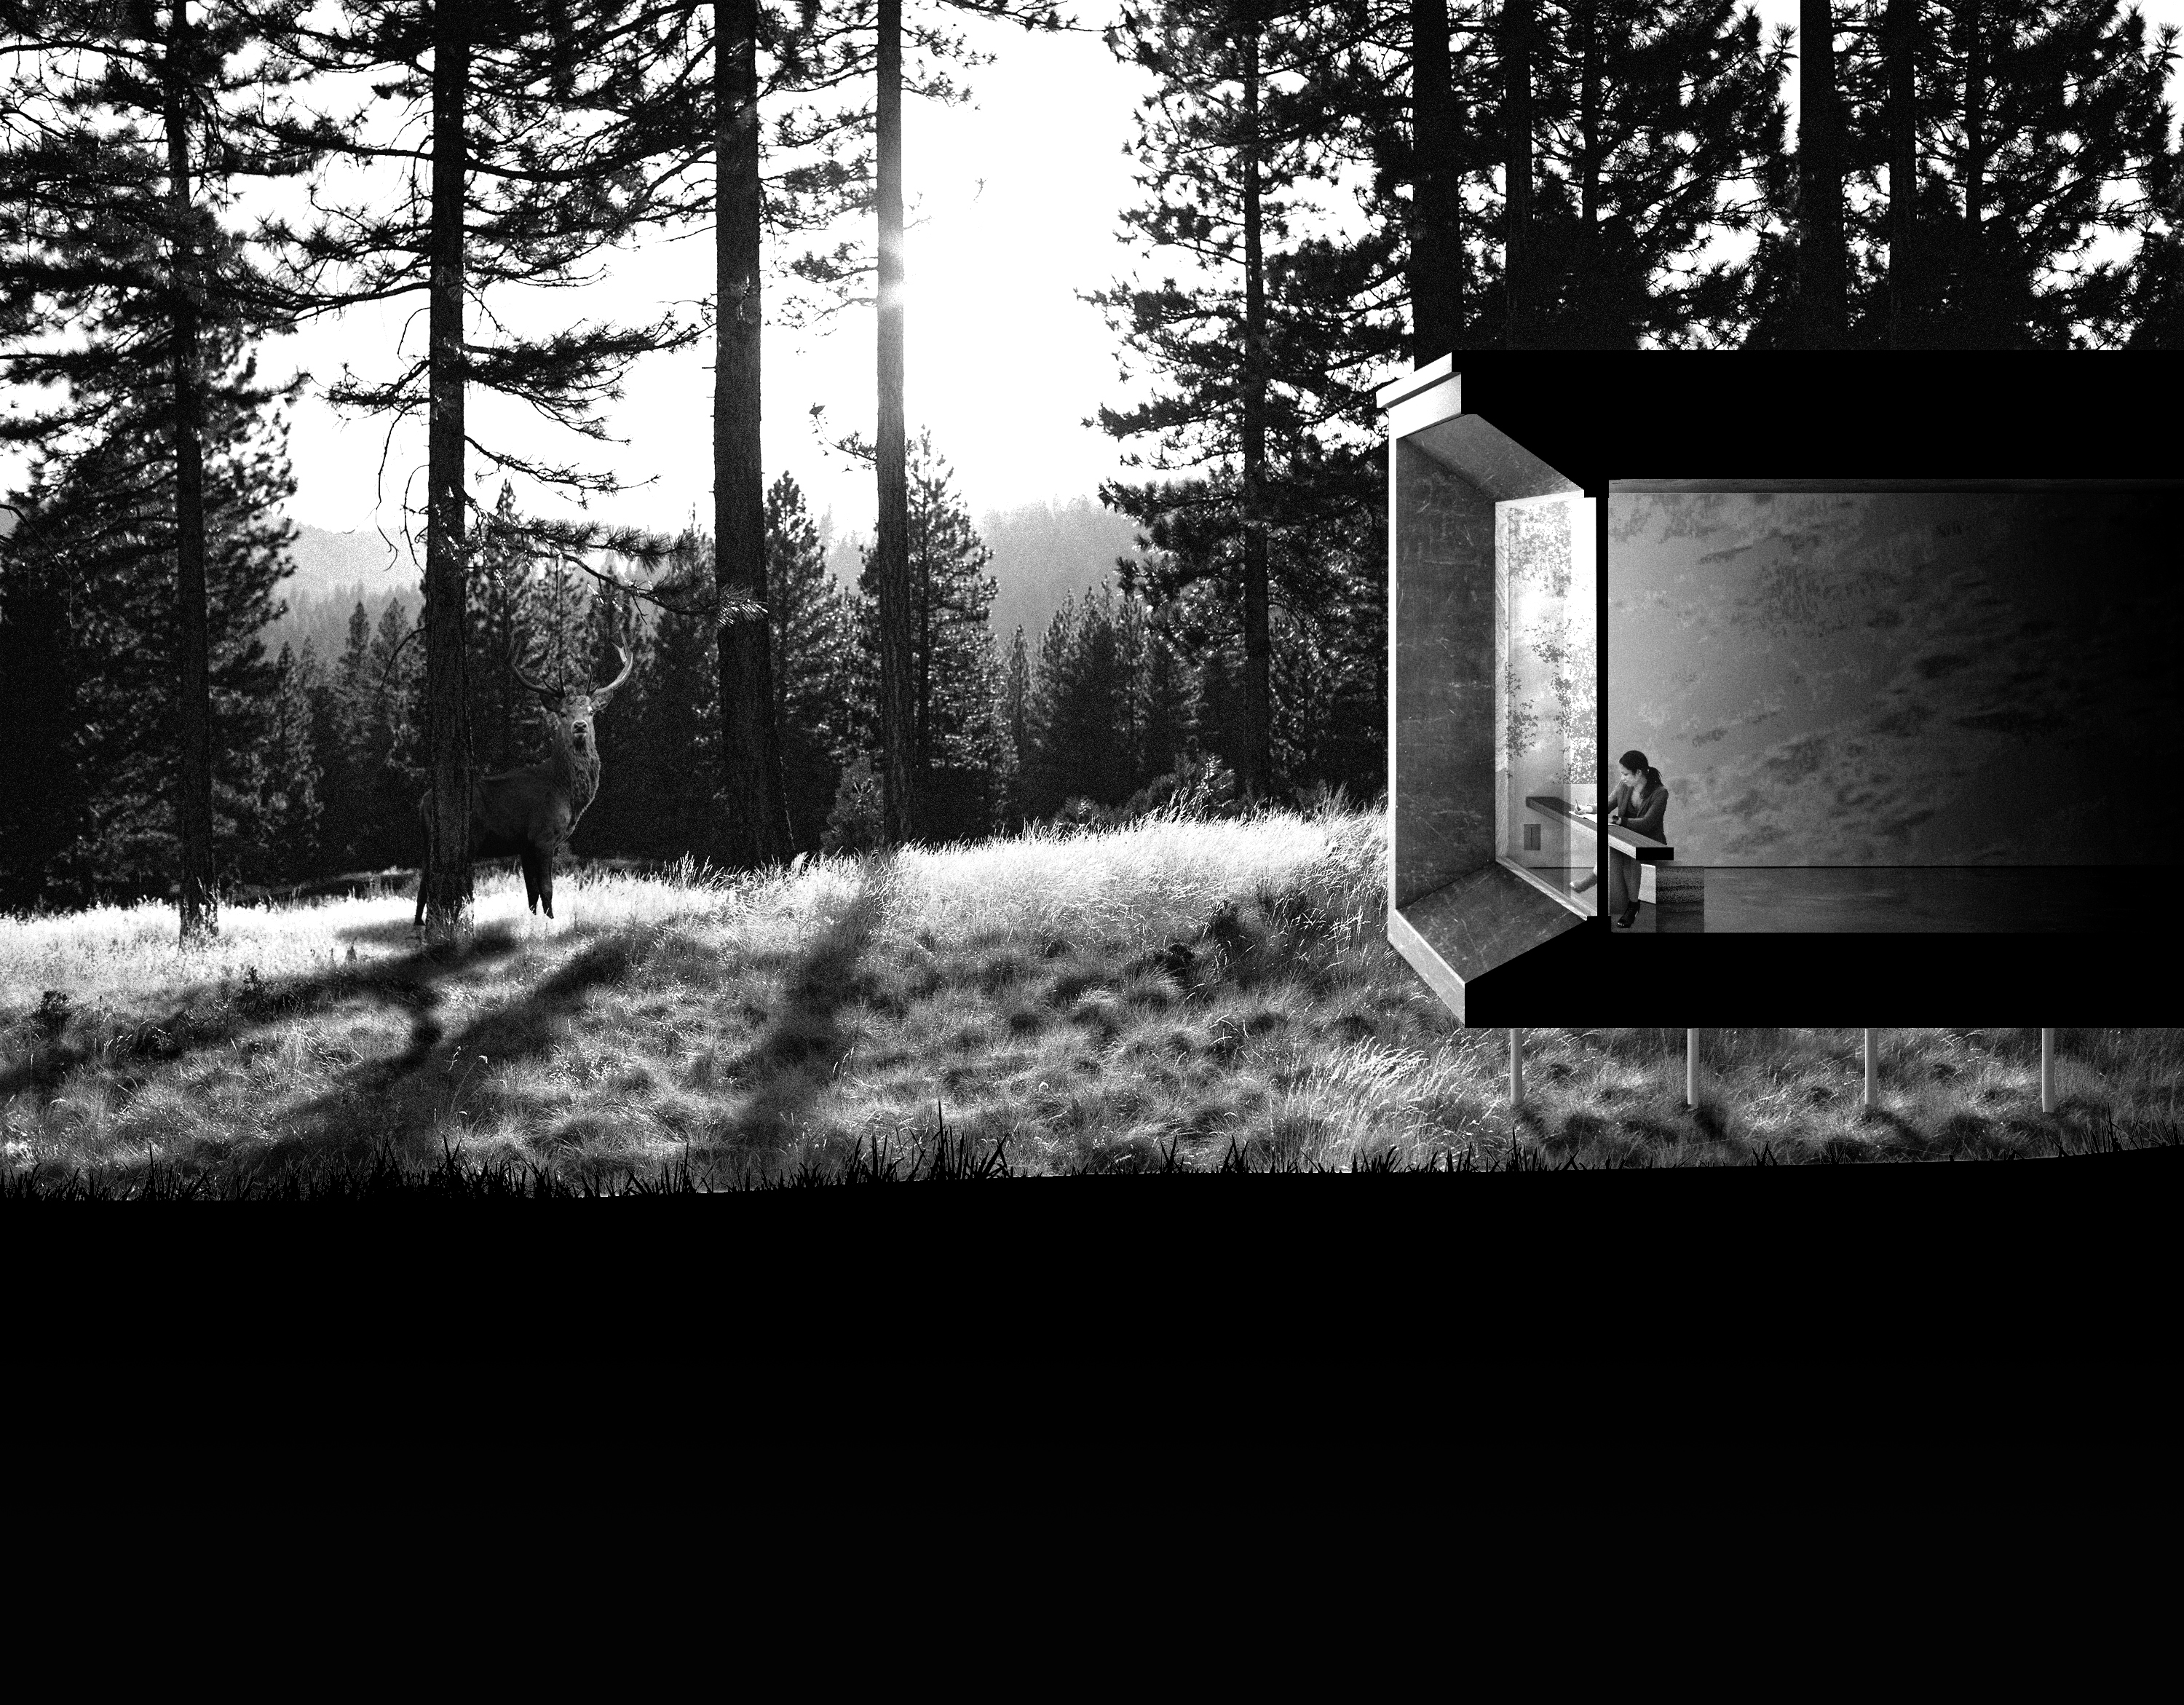
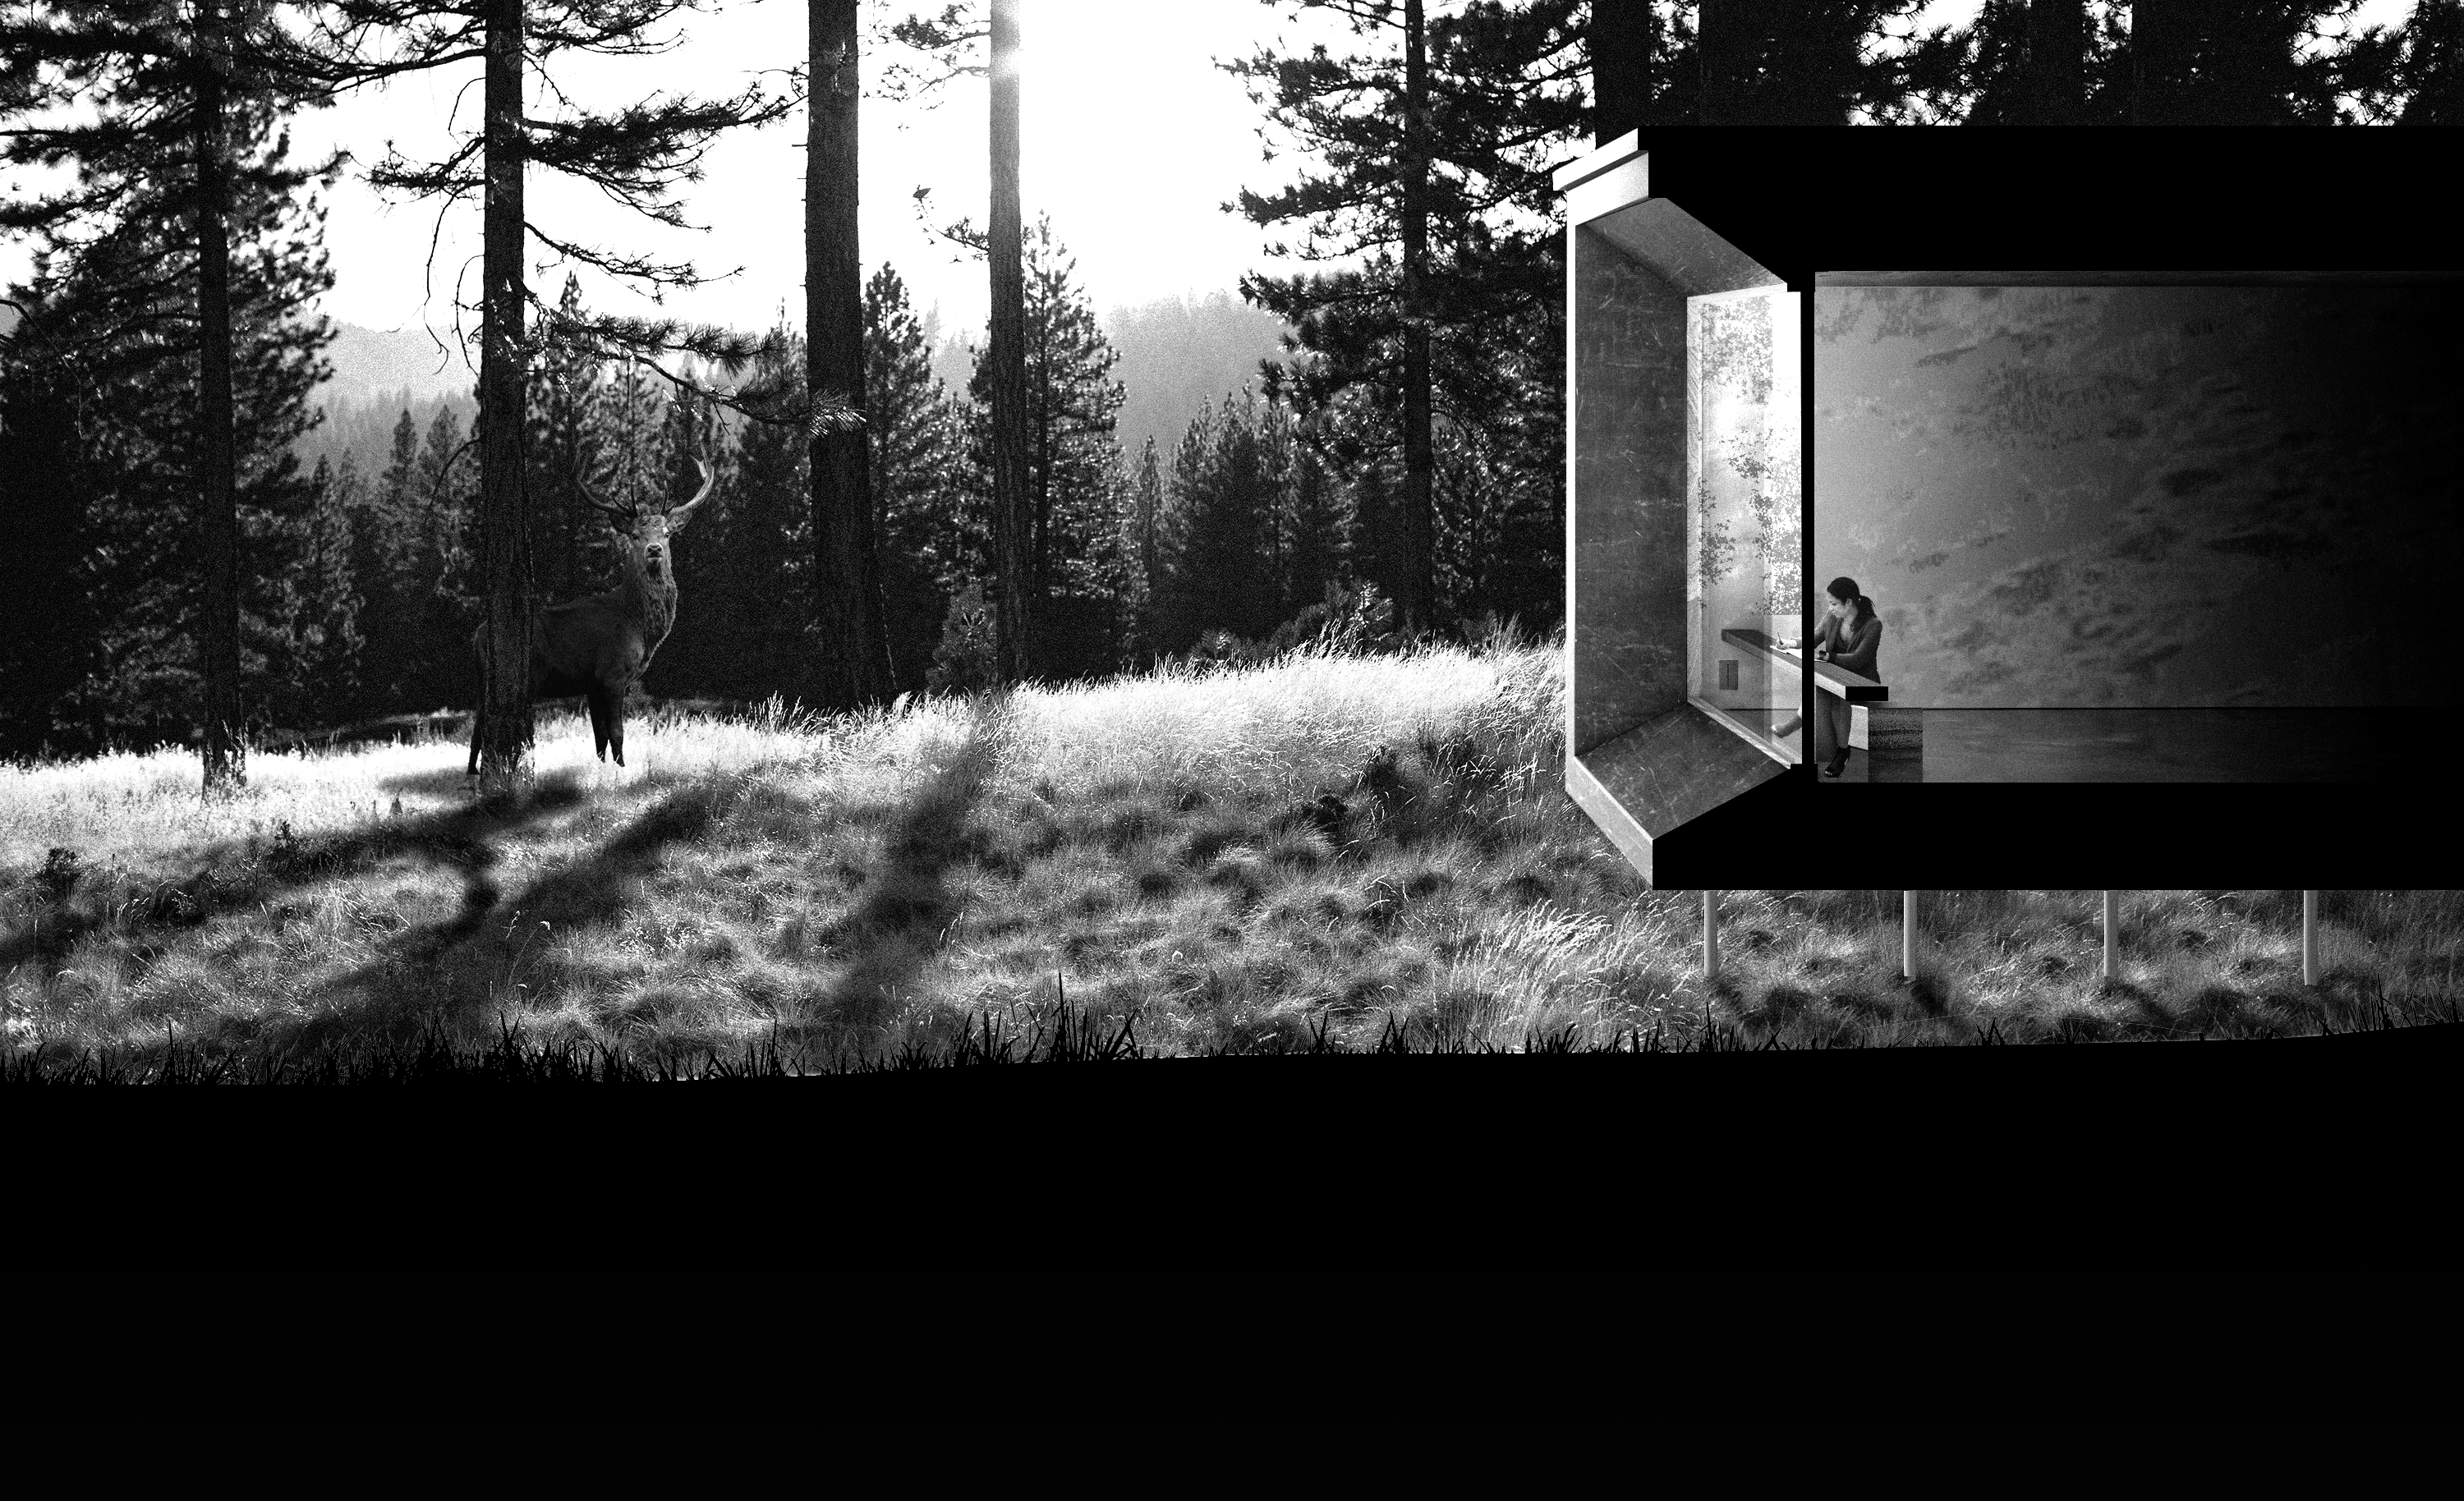
Add files via upload

diff --git a/index.html b/index.html
@@ -55,8 +55,8 @@
     .page-title { font-family:var(--serif); font-size:clamp(2.5rem,6vw,5rem); font-weight:500; text-transform:uppercase; letter-spacing:0.13em; line-height:1; color:var(--black); }
 
     /* SECTIONS */
-    section { padding:5rem 4rem; }
-    .section-tag { font-size:0.65rem; letter-spacing:0.22em; text-transform:uppercase; color:var(--grey); margin-bottom:0.8rem; display:flex; align-items:center; gap:0.8rem; }
+    section { padding:5rem 4rem 10rem; }
+    .section-tag { font-size:0.65rem; letter-spacing:0.22em; text-transform:uppercase; color:var(--grey); margin-bottom:0.8rem; display:flex; align-items:center; gap:0.8rem; transform:translateY(30px); }
     .section-tag::before { content:''; display:block; width:25px; height:1px; background:var(--grey); }
     .section-title{font-family:var(--serif);font-size:clamp(1.8rem,3.5vw,3rem);font-weight:500;text-transform:uppercase;line-height:1;letter-spacing:.05em;margin-bottom:1.5rem;white-space:nowrap;}
 
@@ -108,7 +108,7 @@
     .btn-white:hover { background:var(--light-grey); }
 
     /* BUTTONS */
-    .btn-outline { display:inline-flex; align-items:center; gap:0.7rem; border:1.5px solid var(--black); color:var(--black); padding:0.8rem 1.6rem; font-size:0.72rem; letter-spacing:0.14em; text-transform:uppercase; text-decoration:none; font-weight:500; transition:background 0.2s, color 0.2s; width:fit-content; }
+    .btn-outline { display:inline-flex; align-items:center; gap:0.7rem; border:1.5px solid var(--black); color:var(--black); padding:0.8rem 1.6rem; font-size:0.72rem; letter-spacing:0.14em; text-transform:uppercase; text-decoration:none; font-weight:500; transition:background 0.2s, color 0.2s; width:fit-content; margin-top:3rem; }
     .btn-outline:hover { background:var(--black); color:var(--white); }
 
     /* FOOTER */
@@ -147,14 +147,31 @@
     }
 
     #accueil { position:relative; z-index:10; min-height:100vh; padding:64px 0 0; margin:0; overflow:hidden; }
-    .hero-left { position:relative; z-index:20; padding:calc(25rem + 570px) 2rem 4rem 0; display:flex; flex-direction:column; justify-content:center; width:80vw; margin-left:0; max-width:none; }
-    .hero-title { font-family:var(--serif); font-size:clamp(1.8rem,3vw,3.8rem); font-weight:300; -webkit-font-smoothing:antialiased; -moz-osx-font-smoothing:grayscale; line-height:1; text-transform:uppercase; letter-spacing:0.12em; margin-bottom:1.6rem; background:transparent; color:#ffffff; display:block; padding:0; border:none; position:relative; z-index:21; left:4rem; transform:translateY(-30px); white-space:nowrap; overflow-wrap:normal; word-break:normal; width:100%; max-width:none; }
+    .hero-left {
+        position:absolute;
+        inset:0;
+        display:flex;
+        align-items:flex-end;
+        padding:4rem;
+        z-index:2;
+    }
+    .hero-title { font-family:var(--serif); font-size:clamp(1.8rem,3vw,3.8rem); font-weight:300; -webkit-font-smoothing:antialiased; -moz-osx-font-smoothing:grayscale; line-height:1; text-transform:uppercase; letter-spacing:0.12em; margin-bottom:2rem; background:transparent; color:#ffffff; display:block; padding:0; border:none; position:relative; z-index:21; left:0rem; white-space:nowrap; overflow-wrap:normal; word-break:normal; width:100%; max-width:none; }
     /*.hero-dash { width:40px; height:2px; background:var(--white); margin-bottom:2rem; }*/
     .hero-desc { font-size:0.9rem; color:#fff; line-height:1.8; max-width:420px; margin-bottom:1.2rem; position:relative; }
     .hero-desc::before { content:''; position:absolute; left:0; top:0; width:100%; height:110%; background:linear-gradient(180deg, rgba(255,255,255,0.18), rgba(255,255,255,0.06) 40%, rgba(255,255,255,0) 100%); filter:blur(10px); z-index:-1; border-radius:0.6rem; pointer-events:none; }
     .hero-desc strong { color:#fff; font-weight:600; }
-    .hero-right { position:absolute; inset:0; z-index:0; overflow:hidden; }
-    .hero-right img { position:absolute; top:-145px; left:0; width:100%; height:auto; object-fit:contain; object-position:center top; display:block; }
+    .hero-right {
+        position:relative;
+        width:100%;
+    }
+    .hero-right img {
+        display:block;
+        width:100%;
+        height:auto;
+        position:relative;
+        top:0;
+        left:0;
+    }
     .port-preview { display:grid; grid-template-columns:repeat(4,1fr); }
     .port-item { position:relative; overflow:hidden; cursor:pointer; border-left:1px solid var(--light-grey); }
     .port-item:first-child { border-left:none; }
@@ -166,7 +183,7 @@
     .port-sub { font-size:0.6rem; color:rgba(255,255,255,0.6); margin-top:0.15rem; }
     #portfolio-preview { position:relative; z-index:1; background:var(--white); padding:0; }
     .port-header { display:grid; grid-template-columns:1fr 2.2fr; border-top:1px solid var(--light-grey); }
-    .port-left { padding:4rem 3rem 4rem 4rem; display:flex; flex-direction:column; justify-content:flex-start; border-right:1px solid var(--light-grey); }
+    .port-left { padding:4rem 3rem 4rem 4rem; display:flex; flex-direction:column; justify-content:center; gap:2rem; border-right:1px solid var(--light-grey); }
     @media(max-width:900px) {
       #accueil { grid-template-columns:1fr; }
       .hero-right { height:50vw; }
@@ -252,13 +269,12 @@
     </div>
   </section>
 
-  <section style="position:relative; z-index:2; margin-bottom:-10rem; padding:5rem 4rem 21rem; background:#040404; color:#fff;">
-    <div style="margin-bottom:-35rem; padding-top:5rem;">
-      <div style="font-size:0.65rem; letter-spacing:0.22em; text-transform:uppercase; color:#888; margin-bottom:0.8rem; display:flex; align-items:center; gap:0.6rem;">
-        <span style="display:block; width:25px; height:1px; background:#666; transform: translateY(-50px);"></span>
-        <span style="display:inline-block; transform: translateY(-50px);">Mes compétences</span>
-      </div>
-      <div style="display:grid; grid-template-columns:repeat(auto-fit, minmax(140px, 1fr)); gap:1.4rem;">
+  <section style="position:relative; z-index:2; background:#040404; color:#fff; display:flex; flex-direction:column; gap:4rem; padding:5rem 4rem;">
+    <div style="font-size:0.65rem; letter-spacing:0.22em; text-transform:uppercase; color:#888; margin-bottom:0.8rem; display:flex; align-items:center; gap:0.8rem;">
+      <span style="display:block; width:25px; height:1px; background:#666;"></span>
+      <span>Mes compétences</span>
+    </div>
+    <div style="display:grid; grid-template-columns:repeat(auto-fit, minmax(140px, 1fr)); gap:1.4rem;">
         <div style="display:flex; flex-direction:column; align-items:flex-start; gap:0.6rem;">
           <img src="images/index/mes compétences/01_AUTOCAD.png" alt="Autocad" style="width:40px; height:40px; object-fit:contain;">
           <span style="font-size:0.7rem; letter-spacing:0.06em; text-transform:uppercase; color:#fff;">AUTOCAD</span>
@@ -295,16 +311,15 @@
           <p style="margin:0; font-size:0.72rem; line-height:1.4; color:#aaa;">Haute qualité</p>
         </div>
       </div>
-    </div>
   </section>
 
   <div id="portfolio-preview">
     <div class="port-header">
       <div class="port-left">
-        <div class="section-tag" style="transform:translateY(175px);">Portfolio</div>
-        <h2 class="section-title" style="transform:translateY(180px);">Raconter une histoire, montrer un concept</h2>
-        <p style="font-size:0.85rem;color:#666;line-height:1.8;max-width:800px;margin-bottom:2rem;transform:translateY(225px);">Chaque projet que je travaille est pensé pour sublimer l'architecture, l'espace et l'intention derrière chaque concept. Formé à la conception architecturale puis pris de passion par l'infographie 3D, je comprends comment fonctionne l'univers de l'architecture et du paysage. C'est donc sous cette double casquette que je me présente, à la fois technique et créative, qui fait de moi une passerelle naturelle entre vos idées et la communication de projet.<br><br>Passé par l'agence Viguier et travaillé en tant que régisseur pour Claudia Triozzi, je saisis les enjeux qu'un travail en collaboration nécessite ainsi que les responsabilités que cela implique. Je maîtrise Autocad, Sketchup, Blender, Revit, 3dsMax, Photoshop, Davinci resolve et la modélisation 3D de manière plus générale, que ce soit au début pour modéliser jusqu'à l'étape final de rendu et de post-production. Je réalise également des relevés in situ si besoin en Île-de-France.<br><br>Vous souhaitez mettre en image votre projet (rendus 3D, coupes perspectives, axonométries ou animations) à travers le regard de quelqu'un qui vous comprend? Si votre projet a une intention, je saurai le montrer.</p>
-        <a href="portfolio.html" class="btn-outline" style="transform:translateY(280px);">Découvrir le portfolio →</a>
+        <div class="section-tag">Portfolio</div>
+        <h2 class="section-title">Raconter une histoire, montrer un concept</h2>
+        <p style="font-size:0.85rem;color:#666;line-height:1.8;max-width:800px;margin-bottom:2rem;">Chaque projet que je travaille est pensé pour sublimer l'architecture, l'espace et l'intention derrière chaque concept. Formé à la conception architecturale puis pris de passion par l'infographie 3D, je comprends comment fonctionne l'univers de l'architecture et du paysage. C'est donc sous cette double casquette que je me présente, à la fois technique et créative, qui fait de moi une passerelle naturelle entre vos idées et la communication de projet.<br><br>Passé par l'agence Viguier et travaillé en tant que régisseur pour Claudia Triozzi, je saisis les enjeux qu'un travail en collaboration nécessite ainsi que les responsabilités que cela implique. Je maîtrise Autocad, Sketchup, Blender, Revit, 3dsMax, Photoshop, Davinci resolve et la modélisation 3D de manière plus générale, que ce soit au début pour modéliser jusqu'à l'étape final de rendu et de post-production. Je réalise également des relevés in situ si besoin en Île-de-France.<br><br>Vous souhaitez mettre en image votre projet (rendus 3D, coupes perspectives, axonométries ou animations) à travers le regard de quelqu'un qui vous comprend? Si votre projet a une intention, je saurai le montrer.</p>
+        <a href="portfolio.html" class="btn-outline">Découvrir le portfolio →</a>
       </div>
       <div style="overflow:hidden;"><img src="images/index/des_environnemnts_qui_racontent_une_idée/CREER_UNE_VERITABLE_AMBIANCE.jpg" alt="Des environnements qui racontent une idée" style="width:100%;height:100%;object-fit:cover;"></div>
     </div>